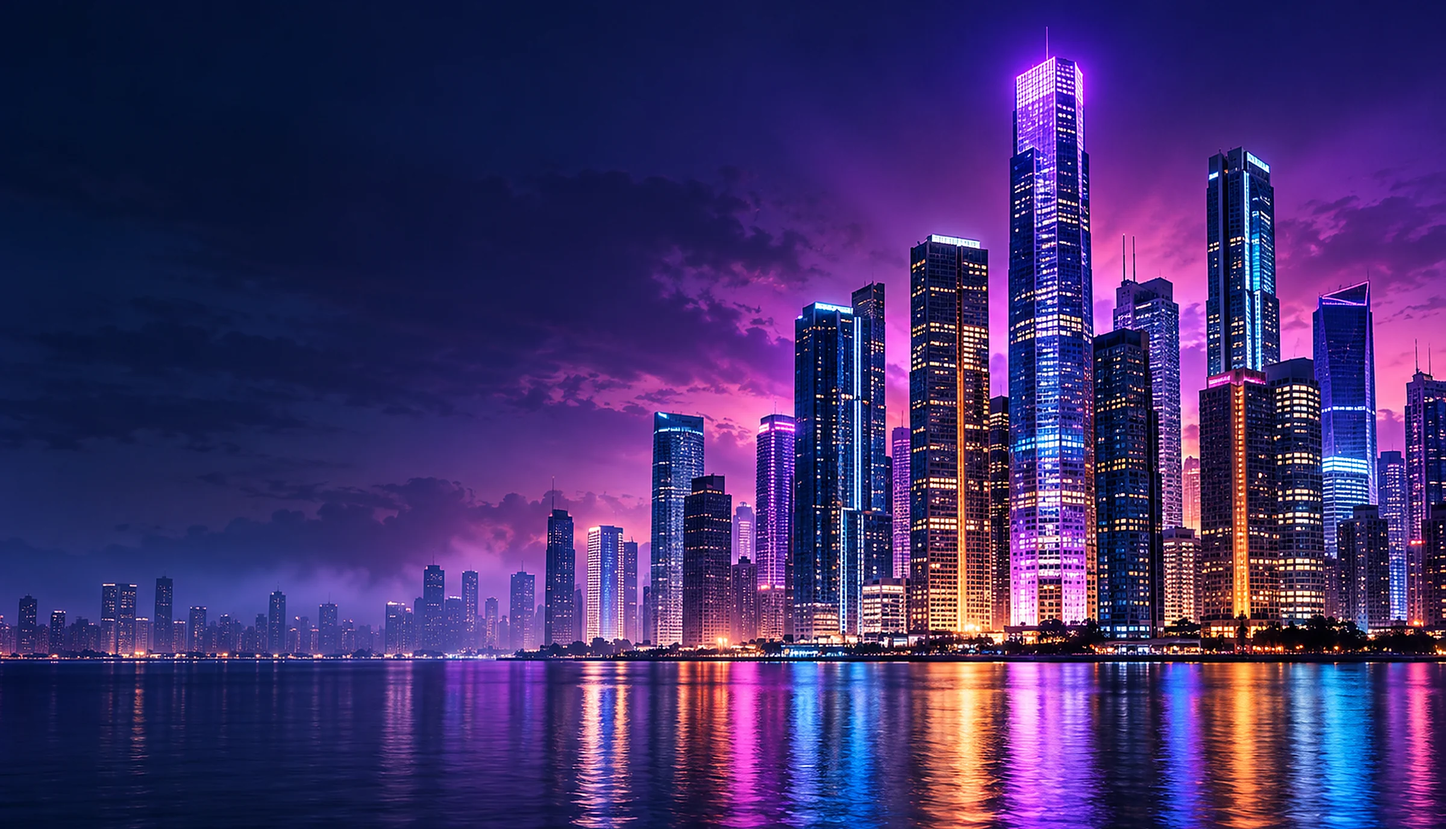
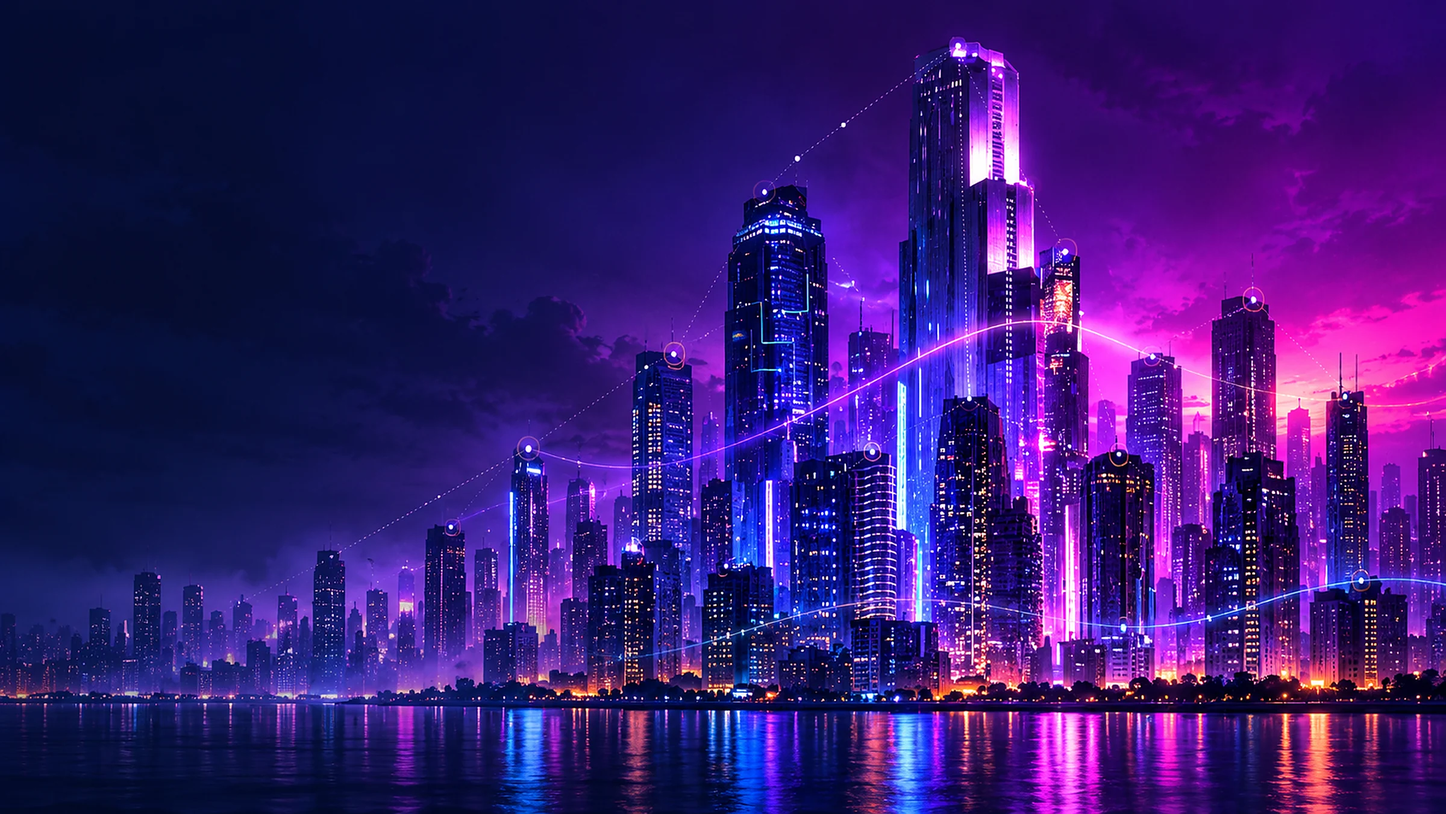
Hero: new waterfront image, towers placed beside the CoproSens card
H's second generated image. The tower cluster is drawn at full hero height starting
just right of the card, so no building sits behind it on wide screens; a dimmed
full-width copy keeps the skyline on the left. Motion layer adds pulses and pings
on the network already painted in the image (none for reduced motion).

Claude-Session: https://claude.ai/code/session_01RsWFF3LUBvvfwWChneYgWM

diff --git a/assets/light.css b/assets/light.css
@@ -35,8 +35,10 @@ h3{font-weight:700;letter-spacing:-.4px}
 .button:hover{filter:brightness(1.07)}
 
 /* Hero: original city image, a little brighter */
-.hero:before{background:linear-gradient(0deg,#141d45 0%,transparent 24%),url('/media/hero-city-layer.svg') right top/auto 100% no-repeat,url('/media/hero-city-right.webp') right top/auto 100% no-repeat,linear-gradient(90deg,#141d45e6 0%,#141d45b3 45%,#141d4599 100%),url('/media/hero-city.webp') left 12%/cover no-repeat!important}
-@media(prefers-reduced-motion:reduce){.hero:before{background:linear-gradient(0deg,#141d45 0%,transparent 24%),url('/media/hero-city-layer-static.svg') right top/auto 100% no-repeat,url('/media/hero-city-right.webp') right top/auto 100% no-repeat,linear-gradient(90deg,#141d45e6 0%,#141d45b3 45%,#141d4599 100%),url('/media/hero-city.webp') left 12%/cover no-repeat!important}}
+.hero:before{background:linear-gradient(0deg,#141d45 0%,transparent 24%),url('/media/hero-city-right-layer.svg') right top/auto 100% no-repeat,url('/media/hero-city-right.webp') right top/auto 100% no-repeat,linear-gradient(90deg,#141d45cc 0%,#141d45b3 30%,#141d45f2 48%,#141d45f2 100%),url('/media/hero-city.webp') left 12%/cover no-repeat!important}
+@media(prefers-reduced-motion:reduce){.hero:before{background:linear-gradient(0deg,#141d45 0%,transparent 24%),url('/media/hero-city-right.webp') right top/auto 100% no-repeat,linear-gradient(90deg,#141d45cc 0%,#141d45b3 30%,#141d45f2 48%,#141d45f2 100%),url('/media/hero-city.webp') left 12%/cover no-repeat!important}}
+@media(min-width:801px) and (max-width:2199px){.hero:before{background-position:0 0,left calc(50vw + 590px) top,left calc(50vw + 590px) top,0 0,left 12%!important}}
+@media(min-width:801px) and (max-width:2199px) and (prefers-reduced-motion:reduce){.hero:before{background-position:0 0,left calc(50vw + 590px) top,0 0,left 12%!important}}
 .hero{grid-template-columns:1fr 1.05fr!important;align-items:center}
 h1 em{background:linear-gradient(100deg,#86e8ff,#a69bff,#efb3ec);-webkit-background-clip:text;background-clip:text;color:transparent}
 
@@ -119,7 +121,7 @@ footer a{color:#fff}
 
 @media(max-width:800px){
  .hero{grid-template-columns:1fr!important}
- .hero:before{background:linear-gradient(180deg,#141d45c4 0%,#141d4599 50%,#141d45 100%),url('/media/hero-city-layer-static.svg') 72% center/cover no-repeat,url('/media/hero-city.webp') 72% center/cover no-repeat!important}
+ .hero:before{background:linear-gradient(180deg,#141d45c4 0%,#141d4599 50%,#141d45 100%),url('/media/hero-city.webp') 72% center/cover no-repeat!important}
  .scene{min-height:0;justify-self:stretch;max-width:none;padding-bottom:150px}
  .browser{width:100%;transform:none}
  .chat-card{right:0;bottom:0;width:86%}
